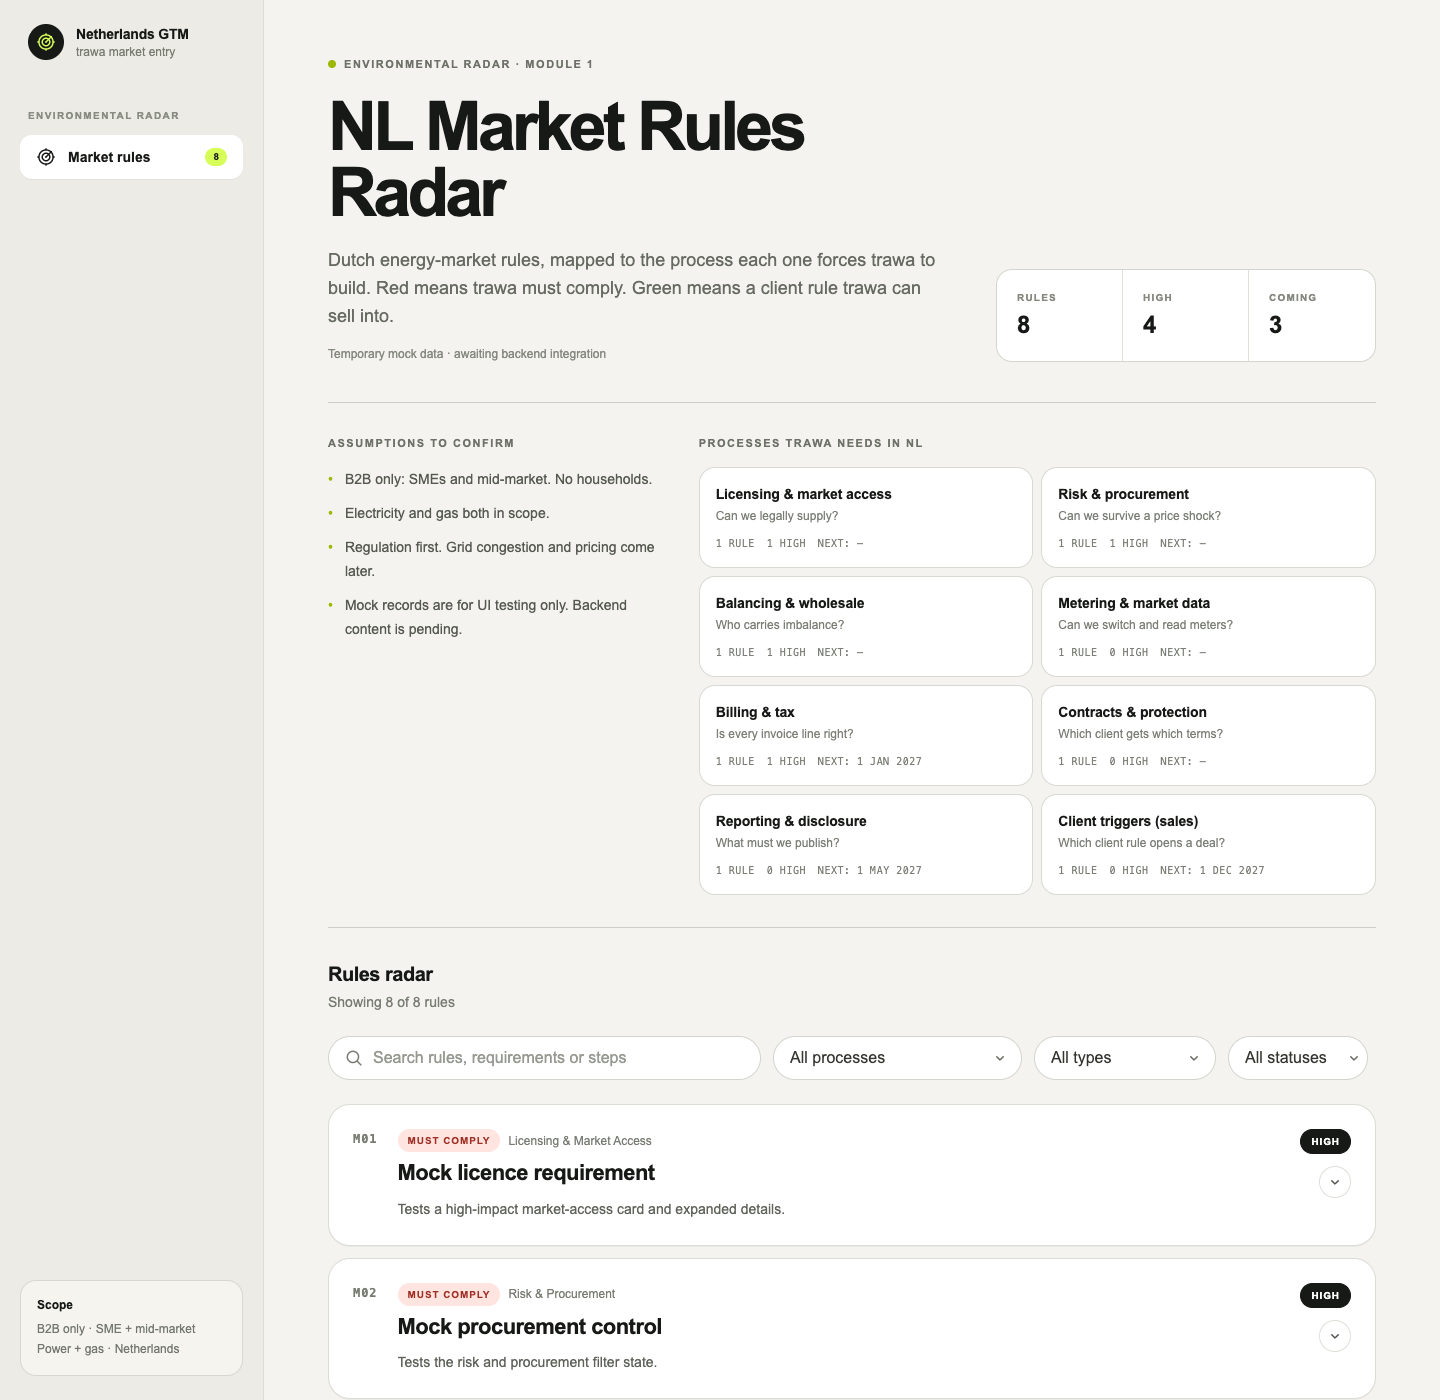
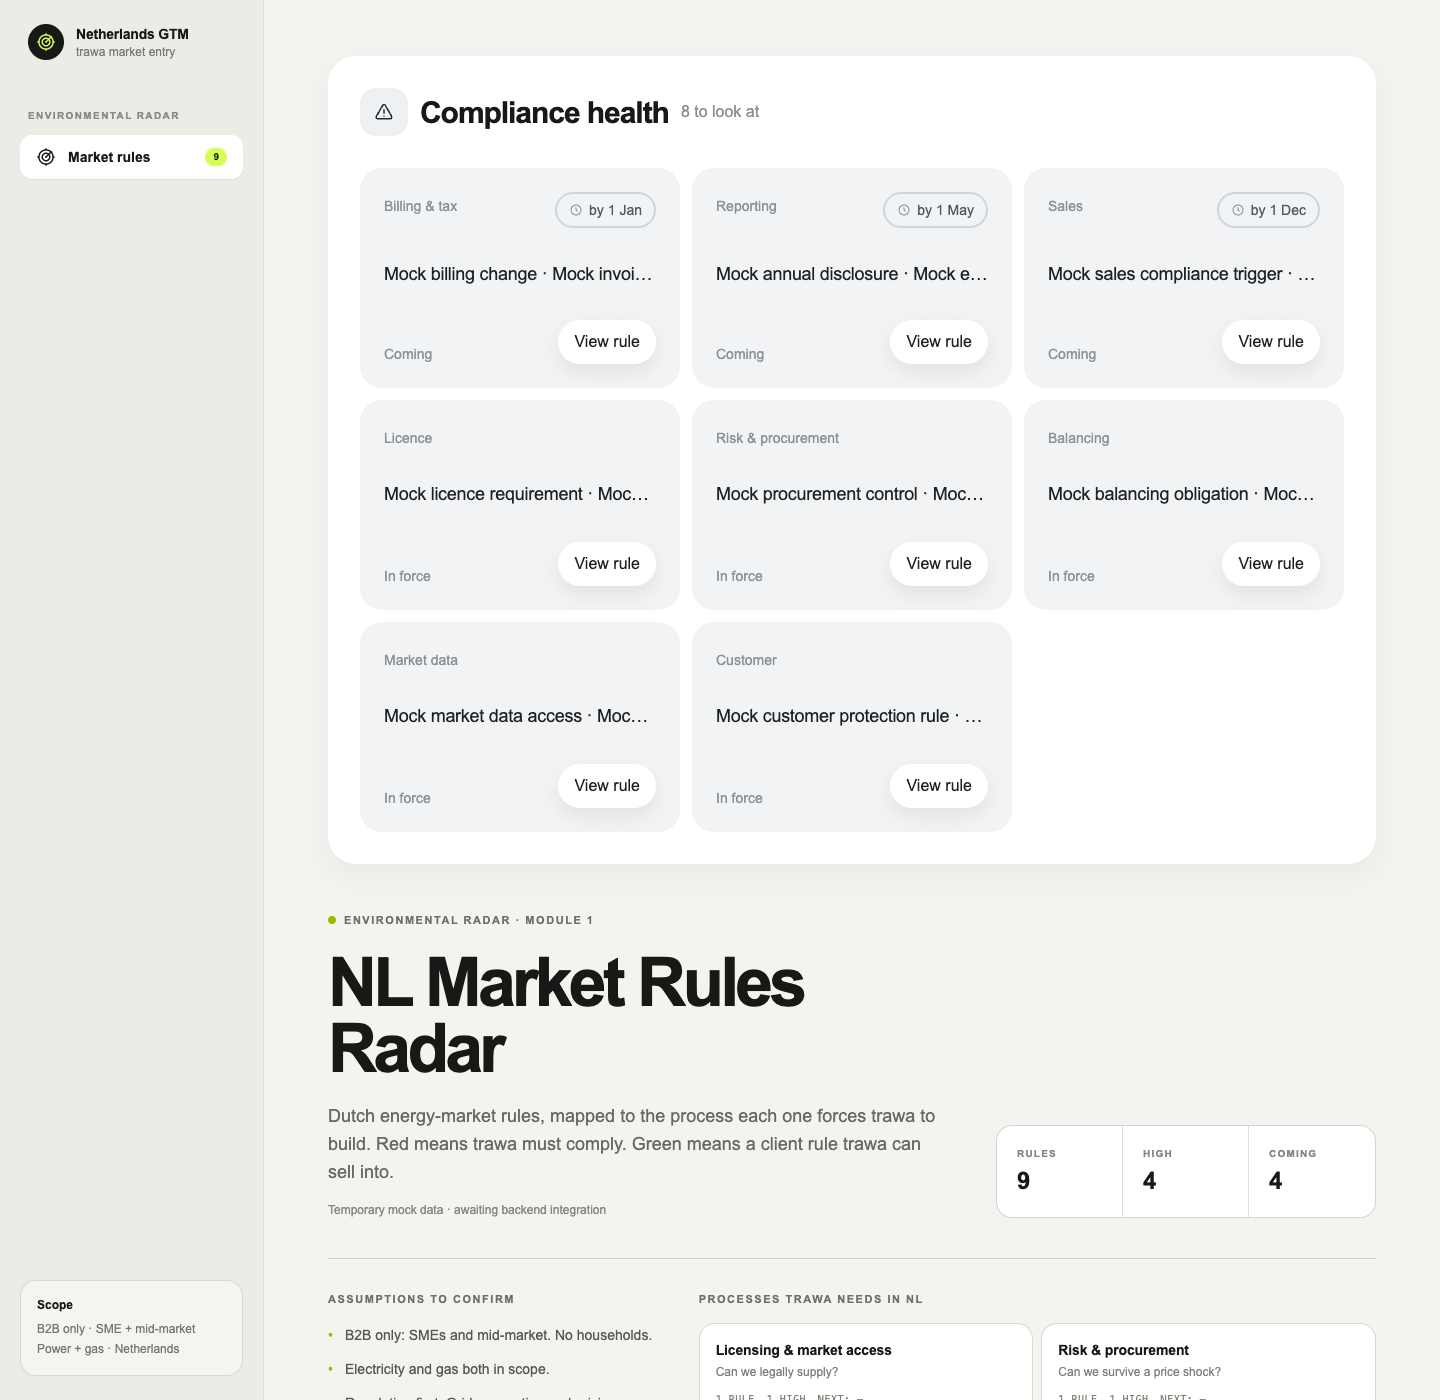
Add compliance health overview

diff --git a/components/market-rules-dashboard.tsx b/components/market-rules-dashboard.tsx
@@ -12,11 +12,13 @@ import { marketRuleProcesses } from "@/lib/data/market-rules";
 import {
   ArrowUpRightIcon,
   ChevronDownIcon,
+  ClockIcon,
   MenuIcon,
   RadarIcon,
   SearchIcon,
   SlidersIcon,
   SparkIcon,
+  WarningTriangleIcon,
 } from "@/components/icons";
 
 type FilterValue<T extends string> = "all" | T;
@@ -43,6 +45,17 @@ const processQuestions: Record<MarketRuleProcess, string> = {
   sales: "Which client rule opens a deal?",
 };
 
+const healthCategoryLabels: Record<MarketRuleProcess, string> = {
+  licence: "Licence",
+  risk: "Risk & procurement",
+  balancing: "Balancing",
+  data: "Market data",
+  billing: "Billing & tax",
+  customer: "Customer",
+  reporting: "Reporting",
+  sales: "Sales",
+};
+
 const impactStyles: Record<MarketRuleImpact, string> = {
   high: "border-[#171916] bg-[#171916] text-white",
   medium: "border-[#f0b63e] bg-[#fff5d8] text-[#714a00]",
@@ -60,6 +73,84 @@ function formatDate(date: string) {
     month: "short",
     year: "numeric",
   }).format(new Date(`${date}T00:00:00`));
+}
+
+function formatDeadline(date: string) {
+  return new Intl.DateTimeFormat("en-GB", {
+    day: "numeric",
+    month: "short",
+  }).format(new Date(`${date}T00:00:00`));
+}
+
+function ComplianceHealth({
+  rules,
+  onViewRule,
+}: {
+  rules: MarketRule[];
+  onViewRule: (ruleId: string) => void;
+}) {
+  return (
+    <section
+      aria-labelledby="compliance-health-title"
+      className="rounded-[28px] bg-white p-5 shadow-[0_12px_32px_rgba(23,25,22,0.05)] sm:p-7 lg:p-8"
+    >
+      <div className="mb-6 flex items-center gap-2.5 sm:mb-8 sm:gap-3">
+        <span className="grid size-10 shrink-0 place-items-center rounded-2xl bg-[#eef1f3] text-[#252a2f] sm:size-12">
+          <WarningTriangleIcon className="size-5" />
+        </span>
+        <h2
+          id="compliance-health-title"
+          className="text-[22px] font-semibold tracking-[-0.035em] sm:text-[30px]"
+        >
+          Compliance health
+        </h2>
+        <span className="whitespace-nowrap text-xs text-[#8a9299] sm:text-base">
+          {rules.length} to look at
+        </span>
+      </div>
+
+      <div className="grid grid-cols-1 gap-3 sm:grid-cols-2 lg:grid-cols-3">
+        {rules.map((rule) => (
+          <article
+            key={rule.id}
+            className="flex min-h-[210px] min-w-0 flex-col rounded-[22px] bg-[#f1f3f4] p-5 sm:p-6"
+          >
+            <div className="flex min-w-0 items-start justify-between gap-3">
+              <span className="pt-1 text-xs font-medium text-[#89929a] sm:text-sm">
+                {healthCategoryLabels[rule.process]}
+              </span>
+              {rule.key_date ? (
+                <span className="inline-flex shrink-0 items-center gap-1.5 rounded-full border-2 border-[#cfd5da] px-3 py-1.5 text-xs font-medium text-[#515960] sm:text-sm">
+                  <ClockIcon className="size-3.5 text-[#87919a]" />
+                  by {formatDeadline(rule.key_date)}
+                </span>
+              ) : null}
+            </div>
+
+            <p
+              className="mt-8 overflow-hidden text-ellipsis whitespace-nowrap text-base font-medium tracking-[-0.015em] text-[#1e2225] sm:text-lg"
+              title={`${rule.title} · ${rule.steps[0] ?? rule.impact_text}`}
+            >
+              {rule.title} · {rule.steps[0] ?? rule.impact_text}
+            </p>
+
+            <div className="mt-auto flex items-end justify-between gap-3 pt-8">
+              <span className="text-xs font-medium text-[#89929a] sm:text-sm">
+                {rule.status === "in_force" ? "In force" : "Coming"}
+              </span>
+              <button
+                type="button"
+                className="shrink-0 rounded-full bg-white px-4 py-2.5 text-sm font-medium text-[#1e2225] shadow-[0_8px_18px_rgba(23,25,22,0.08)] transition hover:-translate-y-0.5 hover:shadow-[0_10px_22px_rgba(23,25,22,0.12)] focus:outline-none focus:ring-2 focus:ring-[#a8c800] focus:ring-offset-2 focus:ring-offset-[#f1f3f4]"
+                onClick={() => onViewRule(rule.id)}
+              >
+                View rule
+              </button>
+            </div>
+          </article>
+        ))}
+      </div>
+    </section>
+  );
 }
 
 function SelectFilter<T extends string>({
@@ -93,16 +184,25 @@ function SelectFilter<T extends string>({
   );
 }
 
-function RuleCard({ rule }: { rule: MarketRule }) {
-  const [expanded, setExpanded] = useState(false);
-
+function RuleCard({
+  rule,
+  expanded,
+  onToggle,
+}: {
+  rule: MarketRule;
+  expanded: boolean;
+  onToggle: () => void;
+}) {
   return (
-    <article className="overflow-hidden rounded-[22px] border border-[#dbdcd5] bg-white shadow-[0_1px_0_rgba(23,25,22,0.04)] transition hover:border-[#bfc1b9]">
+    <article
+      id={`rule-${rule.id}`}
+      className="scroll-mt-24 overflow-hidden rounded-[22px] border border-[#dbdcd5] bg-white shadow-[0_1px_0_rgba(23,25,22,0.04)] transition hover:border-[#bfc1b9]"
+    >
       <button
         type="button"
         aria-expanded={expanded}
         className="grid w-full grid-cols-[auto_1fr_auto] gap-x-3 gap-y-3 p-5 text-left sm:gap-x-5 sm:p-6"
-        onClick={() => setExpanded((current) => !current)}
+        onClick={onToggle}
       >
         <span className="pt-0.5 font-mono text-xs font-semibold tracking-[0.08em] text-[#777b71]">
           {rule.id}
@@ -216,6 +316,20 @@ export function MarketRulesDashboard({
   const [kind, setKind] = useState<FilterValue<MarketRuleKind>>("all");
   const [status, setStatus] = useState<FilterValue<MarketRuleStatus>>("all");
   const [mobileNavigationOpen, setMobileNavigationOpen] = useState(false);
+  const [expandedRuleId, setExpandedRuleId] = useState<string | null>(null);
+
+  const complianceRules = useMemo(
+    () =>
+      rules
+        .filter((rule) => rule.kind === "must")
+        .sort((first, second) => {
+          if (!first.key_date && !second.key_date) return 0;
+          if (!first.key_date) return 1;
+          if (!second.key_date) return -1;
+          return first.key_date.localeCompare(second.key_date);
+        }),
+    [rules],
+  );
 
   const filteredRules = useMemo(() => {
     const query = search.trim().toLowerCase();
@@ -261,6 +375,19 @@ export function MarketRulesDashboard({
     setProcess("all");
     setKind("all");
     setStatus("all");
+  }
+
+  function viewRule(ruleId: string) {
+    clearFilters();
+    setExpandedRuleId(ruleId);
+
+    window.requestAnimationFrame(() => {
+      window.requestAnimationFrame(() => {
+        document
+          .getElementById(`rule-${ruleId}`)
+          ?.scrollIntoView({ behavior: "smooth", block: "center" });
+      });
+    });
   }
 
   return (
@@ -329,7 +456,9 @@ export function MarketRulesDashboard({
 
       <main id="top" className="lg:pl-[264px]">
         <div className="mx-auto max-w-[1440px] px-5 pb-20 pt-10 sm:px-8 sm:pt-14 lg:px-12 xl:px-16">
-          <section className="grid items-end gap-8 border-b border-[#cecec7] pb-10 lg:grid-cols-[1fr_auto] lg:gap-12">
+          <ComplianceHealth rules={complianceRules} onViewRule={viewRule} />
+
+          <section className="mt-12 grid items-end gap-8 border-b border-[#cecec7] pb-10 lg:grid-cols-[1fr_auto] lg:gap-12">
             <div>
               <div className="mb-5 flex items-center gap-2 text-[11px] font-bold uppercase tracking-[0.14em] text-[#6d7168]">
                 <span className="size-2 rounded-full bg-[#9cb900]" />
@@ -468,7 +597,16 @@ export function MarketRulesDashboard({
             {filteredRules.length ? (
               <div className="space-y-3">
                 {filteredRules.map((rule) => (
-                  <RuleCard key={rule.id} rule={rule} />
+                  <RuleCard
+                    key={rule.id}
+                    rule={rule}
+                    expanded={expandedRuleId === rule.id}
+                    onToggle={() =>
+                      setExpandedRuleId((current) =>
+                        current === rule.id ? null : rule.id,
+                      )
+                    }
+                  />
                 ))}
               </div>
             ) : (

diff --git a/components/icons.tsx b/components/icons.tsx
@@ -27,6 +27,15 @@ export function ChevronDownIcon(props: IconProps) {
   );
 }
 
+export function ClockIcon(props: IconProps) {
+  return (
+    <svg aria-hidden="true" {...defaults} {...props}>
+      <circle cx="12" cy="12" r="8.5" />
+      <path d="M12 7.5V12l3 2" />
+    </svg>
+  );
+}
+
 export function MenuIcon(props: IconProps) {
   return (
     <svg aria-hidden="true" {...defaults} {...props}>
@@ -69,6 +78,15 @@ export function SparkIcon(props: IconProps) {
   return (
     <svg aria-hidden="true" {...defaults} {...props}>
       <path d="m12 2 1.2 4.2a6.4 6.4 0 0 0 4.5 4.5L22 12l-4.2 1.2a6.4 6.4 0 0 0-4.5 4.5L12 22l-1.2-4.2a6.4 6.4 0 0 0-4.5-4.5L2 12l4.2-1.2a6.4 6.4 0 0 0 4.5-4.5L12 2Z" />
+    </svg>
+  );
+}
+
+export function WarningTriangleIcon(props: IconProps) {
+  return (
+    <svg aria-hidden="true" {...defaults} {...props}>
+      <path d="M10.4 4.1 2.8 17.3A1.8 1.8 0 0 0 4.4 20h15.2a1.8 1.8 0 0 0 1.6-2.7L13.6 4.1a1.8 1.8 0 0 0-3.2 0Z" />
+      <path d="M12 9v4.5M12 17h.01" />
     </svg>
   );
 }

diff --git a/lib/data/market-rules.ts b/lib/data/market-rules.ts
@@ -157,11 +157,26 @@ export const marketRules: MarketRule[] = [
   },
   {
     id: "M08",
-    title: "Mock client sales trigger",
-    kind: "opp",
+    title: "Mock sales compliance trigger",
+    kind: "must",
     process: "sales",
     status: "coming",
     key_date: "2027-12-01",
+    impact: "medium",
+    rule_text: mockRuleText,
+    impact_text: "Tests a must-comply rule in the sales process.",
+    steps: ["Mock client segment", "Mock compliance outreach"],
+    sources: [mockSource],
+    check: false,
+    checked_at: "2026-11-21",
+  },
+  {
+    id: "M09",
+    title: "Mock client sales opportunity",
+    kind: "opp",
+    process: "sales",
+    status: "coming",
+    key_date: null,
     impact: "medium",
     rule_text: mockRuleText,
     impact_text: "Tests the client-rule treatment and sales-opportunity filter.",
